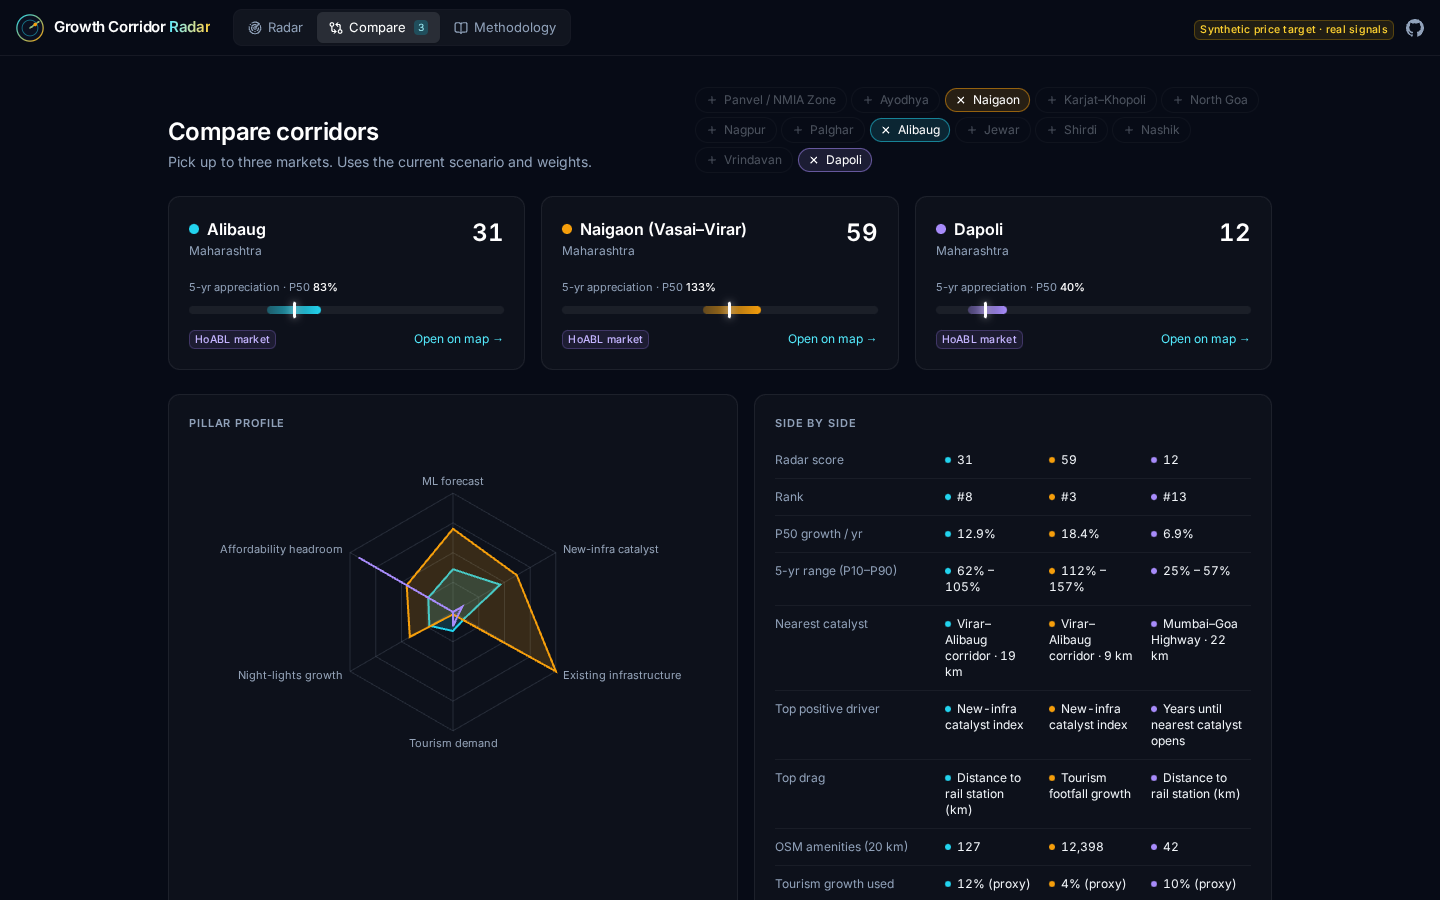
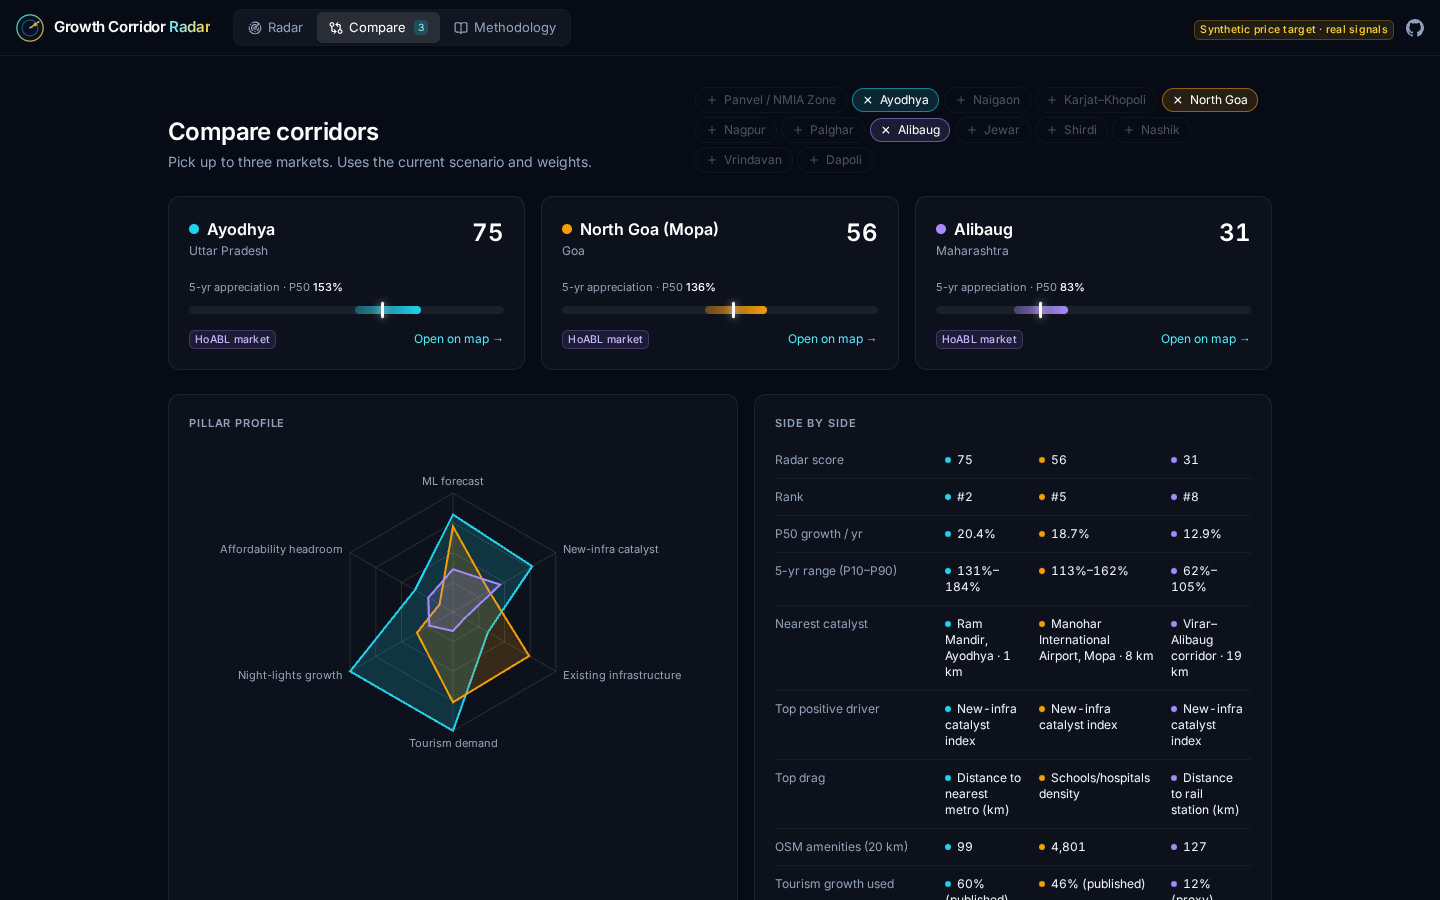
Lift 3D labels above hex columns; refresh screenshots; add Vercel mirror link

diff --git a/web/src/MapView.tsx b/web/src/MapView.tsx
@@ -71,11 +71,11 @@ export default function MapView({ corridors, infra, hexes, scores, selected, onS
       transitions: { getRadius: { duration: 500 } },
     }),
     new TextLayer<Corridor>({
-      id: 'labels', data: labelled, getPosition: d => [d.lon, d.lat], getText: d => d.name.split(' (')[0],
+      id: 'labels', data: labelled, getPosition: d => [d.lon, d.lat, zoomedIn ? 16000 : 0], getText: d => d.name.split(' (')[0],
       getSize: zoomedIn ? 15 : 12, getColor: d => d.id === selected || !selected ? [241, 245, 249, 255] : [148, 163, 184, 200],
-      getPixelOffset: [0, zoomedIn ? -60 : -26], fontFamily: 'Inter, sans-serif', fontWeight: 600, characterSet: 'auto',
+      getPixelOffset: [0, zoomedIn ? -18 : -26], fontFamily: 'Inter, sans-serif', fontWeight: 600, characterSet: 'auto',
       outlineWidth: 3, outlineColor: [7, 11, 22, 255], fontSettings: { sdf: true }, billboard: true,
-      updateTriggers: { getColor: [selected], getSize: [zoomedIn], getPixelOffset: [zoomedIn] },
+      updateTriggers: { getColor: [selected], getSize: [zoomedIn], getPixelOffset: [zoomedIn], getPosition: [zoomedIn] },
     }),
   ], [hexes, infra, corridors, labelled, scores, selected, zoomedIn, maxScore, predYear])
 

diff --git a/README.md b/README.md
@@ -3,7 +3,7 @@
 **Which Indian land market will appreciate next, and why?**
 An explainable data-science app that ranks 13 growth corridors (Alibaug, Naigaon, Panvel/NMIA, Ayodhya, Vrindavan, North Goa/Mopa, Dapoli, Nagpur and more) on a 3D H3 hexagon map, with live weight sliders, what-if infrastructure scenarios, per-corridor SHAP explanations and calibrated 5-year appreciation ranges.
 
-**Live demo:** https://jiyasingh18.github.io/growth-corridor-radar/
+**Live demo:** https://jiyasingh18.github.io/growth-corridor-radar/ (mirror: https://growth-corridor-radar.vercel.app)
 
 ![Radar overview](docs/screenshots/overview.png)
 
